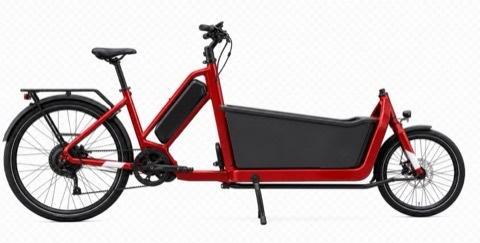
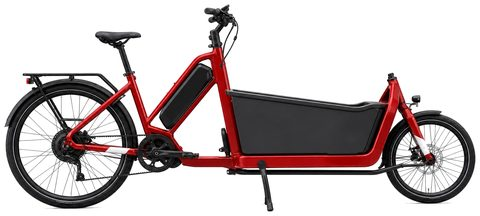
feat(web): alle drei Vorschaubilder freigestellt, Kachel zeigt das ganze Rad
Die gelieferten Freisteller trugen das Transparenz-Schachbrett
EINGEBRANNT: zwei Grautoene, 246 und 254, kein Alphakanal. Auf weissem
Grund waere das Muster sichtbar geworden. Beim Erzeugen wird deshalb
jedes neutrale Pixel ab Helligkeit 238 auf reines Weiss gesetzt - ueber
die Neutralitaet, nicht ueber einen Schwellenwert allein, sonst haette
es die weissen Rahmenteile der Raeder mit erwischt.

Danach auf das Motiv zugeschnitten und auf 480 px gebracht. Alle drei
liegen jetzt bei rund 30 KB und auf demselben Weiss.

Die Bildkachel im Popover stand auf object-fit: cover und zeigte damit
einen Ausschnitt. Bei freigestellten Produktfotos will man das ganze
Rad sehen: jetzt contain auf weissem Grund, Kachel etwas groesser
(74x48 statt 66x44). Die drei Bauarten sind damit auf einen Blick zu
unterscheiden - tiefer Einstieg, Diamantrahmen, Transportbox.

Die grossen Buehnenmotive im Kopfbereich bleiben unberuehrt; der
WebGL-Morph blendet genau zwischen diesen beiden ueber.

Originale liegen als *-quelle.* daneben, damit sich die Vorschaubilder
neu erzeugen lassen. src/assets/README.md haelt fest, welche Datei
wozu dient und warum das Schachbrett behandelt werden muss.

Abnahme: alle 13 Pruefungen gruen.

Changed region(s): [[0.0, 0.0278, 1.0, 0.9722]]

diff --git a/src/style.css b/src/style.css
@@ -888,19 +888,22 @@ img { max-width: 100%; }
 
 .pop-typ {
   display: grid;
-  grid-template-columns: 66px 1fr auto;
+  grid-template-columns: 74px 1fr auto;
   align-items: center;
   gap: 13px;
   padding: 12px 18px;
   border-bottom: 1px solid var(--mist);
 }
+/* Die Raeder sind freigestellt: contain statt cover, damit das ganze
+   Rad zu sehen ist und nicht ein Ausschnitt davon. Weisser Grund, weil
+   die Freisteller auf Weiss stehen - so faellt keine Kante auf. */
 .pop-bild {
-  width: 66px; height: 44px;
+  width: 74px; height: 48px;
   overflow: hidden; border-radius: 2px;
-  background: var(--paper);
+  background: #fff;
   display: flex; align-items: center; justify-content: center;
 }
-.pop-bild img { width: 100%; height: 100%; object-fit: cover; display: block; }
+.pop-bild img { width: 100%; height: 100%; object-fit: contain; display: block; }
 .pop-kein-bild { color: var(--grau-still); font-size: 17px; }
 .pop-text { display: flex; flex-direction: column; gap: 2px; min-width: 0; }
 .pop-text strong {
@@ -1166,8 +1169,8 @@ footer a:hover { color: #fff; text-decoration: underline; }
   .profil .container { overflow-x: auto; }
   .profil-svg { min-width: 720px; }
   #map { height: clamp(420px, 66vh, 600px); }
-  .pop-typ { grid-template-columns: 54px 1fr auto; gap: 10px; padding: 11px 14px; }
-  .pop-bild { width: 54px; height: 38px; }
+  .pop-typ { grid-template-columns: 62px 1fr auto; gap: 10px; padding: 11px 14px; }
+  .pop-bild { width: 62px; height: 40px; }
 }
 
 @media (max-width: 520px) {

diff --git a/src/assets/README.md b/src/assets/README.md
@@ -1,0 +1,17 @@
+# Bilder
+
+| Datei | Zweck |
+|---|---|
+| `velocity-bike-hero.png`, `velocity-bike-city-hero.png` | Die beiden grossen Motive der Buehne im Kopfbereich. Der WebGL-Morph blendet genau zwischen diesen beiden ueber — **nicht ersetzen**, ohne `velocity-bike-morph.js` mitzudenken. |
+| `rad-city.jpg`, `rad-ebike.jpg`, `rad-cargo.jpg` | Die Vorschaubilder im Kartenpopover, 480 px breit, rund 30 KB. |
+| `*-quelle.*` | Die gelieferten Originale, aus denen die Vorschaubilder entstehen. |
+
+## Vorschaubild neu erzeugen
+
+Die Freisteller kamen mit eingebranntem Transparenz-Schachbrett: zwei
+Grautoene (246 und 254), die auf weissem Grund sichtbar waeren. Beim
+Erzeugen wird jedes neutrale Pixel ab Helligkeit 238 auf reines Weiss
+gesetzt, dann auf das Motiv zugeschnitten und auf 480 px verkleinert.
+
+Das Popover zeigt die Bilder mit `object-fit: contain` auf weissem
+Grund — also das ganze Rad, nicht einen Ausschnitt.
